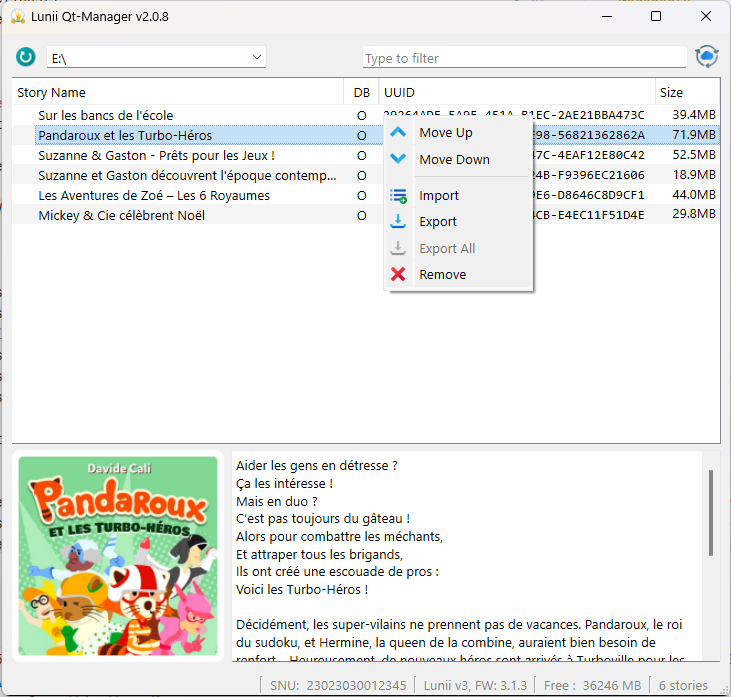
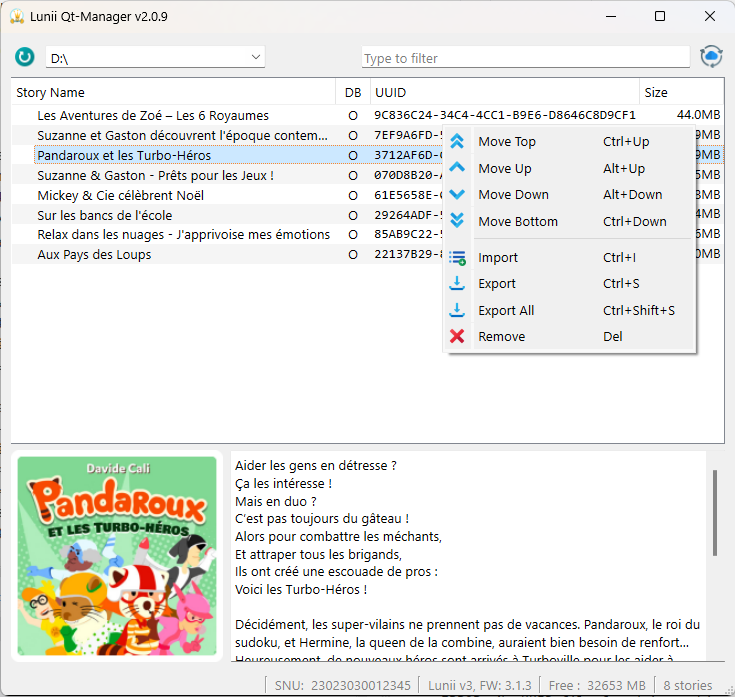
Updated README.md

diff --git a/README.md b/README.md
@@ -11,14 +11,19 @@ A Python QT app to manage Lunii Storyteller, including **reorder** / **import** 
 
 ## Shortcuts
 
-| Keys       | Actions                        |
-|------------|--------------------------------|
-| "Alt+Up"   | Move the selected item(s) Up   |
-| "Alt+Down" | Move the selected item(s) Down |
-| "Delete"   | Remove the selected item(s)    |
-| "Ctrl+S"   | Export the selection           |
-| "Ctrl+I"   | Import new story               |
-| "F5"       | Refresh devices                |
+| Keys           | Actions                          |
+|----------------|----------------------------------|
+| `Ctrl+Up`      | Move the selected item(s) Top    |
+| `Alt+Up`       | Move the selected item(s) Up     |
+| `Alt+Down`     | Move the selected item(s) Down   |
+| `Ctrl+Down`    | Move the selected item(s) Bottom |
+|                |                                  |
+| `Ctrl+I`       | Import new story                 |
+| `Ctrl+S`       | Export the selection             |
+| `Ctrl+Shift+S` | Export all the stories           |
+| `Delete`       | Remove the selected item(s)      |
+|                |                                  |
+| `F5`           | Refresh devices                  |
 
 ## TODO
 * fecth STUdio db
